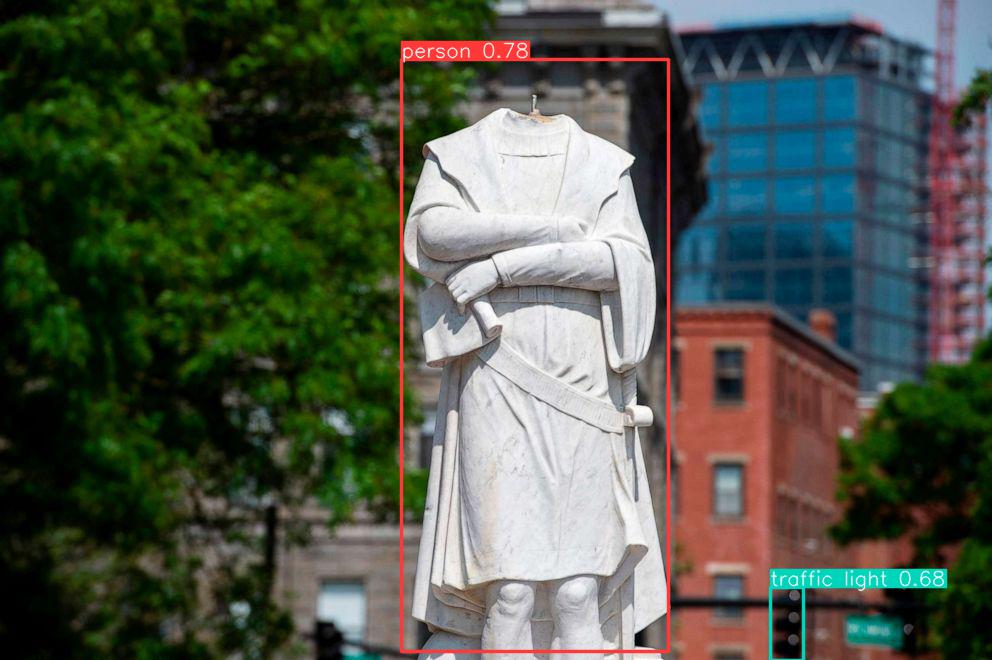
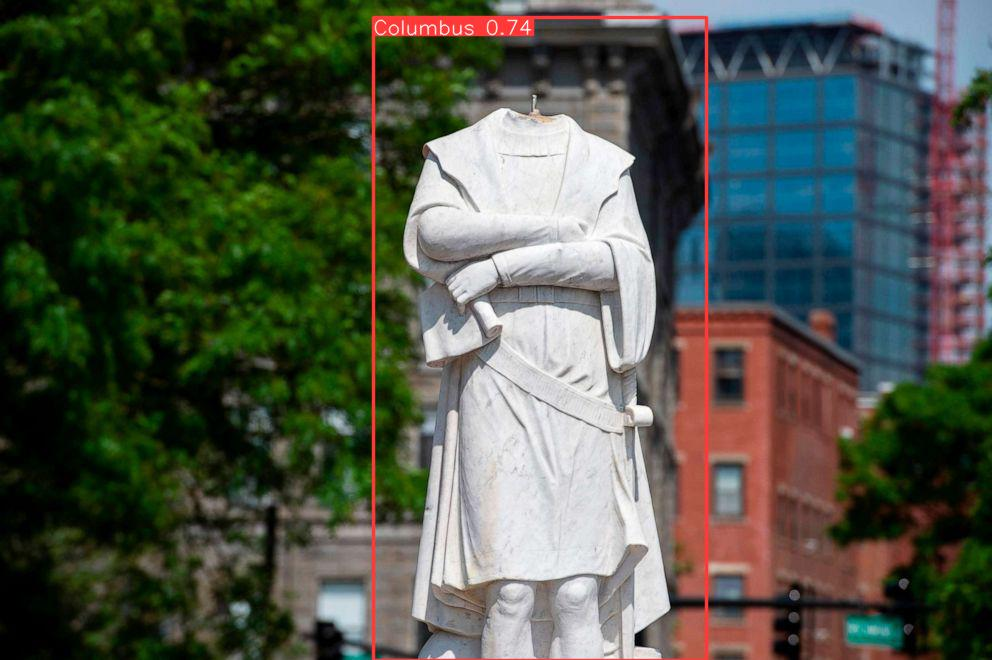
database start

Changed region(s): [[0.375, 0.0, 0.7188, 1.0], [0.75, 0.8485, 0.9688, 1.0]]

diff --git a/application.py b/application.py
@@ -1,13 +1,11 @@
 # Import Necessary Libraries
 from flask import Flask, request, render_template
-import torch
-import base64
 import os
 
+from controller.image_handler import image_handler
 
 # Creat Necessary Objects
 application = Flask(__name__)
-model = torch.hub.load('yolov5', 'custom', path='yolov5/runs/train/exp11/weights/best.pt', source='local')
 
 @application.route('/', methods=['POST', 'GET'])
 def hello_world():
@@ -16,14 +14,15 @@ def hello_world():
 @application.route('/image', methods=['POST', 'GET'])
 def object_detect():
     if request.method == 'POST':
+
         # Get Image From Web Request
         data = request.files
         file = data['photo']
         filePath = 'static/' + file.filename
         file.save(os.path.join(filePath))
-        
-        # Perform the Object Recognition
-        results = model(filePath)
+
+        # Perform Object Detection
+        results = image_handler(filePath)
         results.save('static/')
 
         return render_template('results.html', file = file.filename)

diff --git a/database/populate_db.py b/database/populate_db.py
@@ -1,0 +1,18 @@
+from pymongo import MongoClient, InsertOne
+import pprint
+import json
+
+# Initiate MongoDB
+client = MongoClient()
+db = client.tourist
+collection = db.landmarks
+
+with open(r"database/lib.json") as f:
+    myDict = json.loads(f.read())
+
+result = collection.insert_one(myDict)
+
+for doc in collection.find():
+    pprint.pprint(doc)
+
+client.close()

diff --git a/controller/image_handler.py b/controller/image_handler.py
@@ -1,0 +1,12 @@
+import torch
+import pandas
+
+# Load the Object Detection Model
+model = torch.hub.load('yolov5', 'custom', path='yolov5/runs/train/exp11/weights/best.pt', source='local')
+
+def image_handler(filePath):
+    
+    # Perform the Object Recognition
+    results = model(filePath)
+
+    return results

diff --git a/__init__.py b/__init__.py
@@ -1,0 +1,4 @@
+def main():
+    return ""
+
+main()
